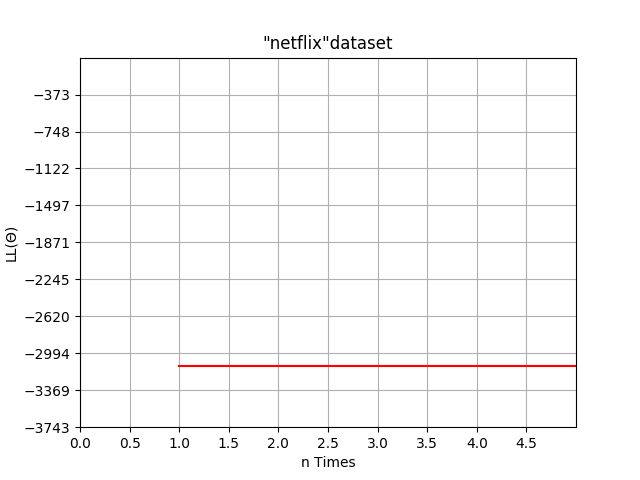
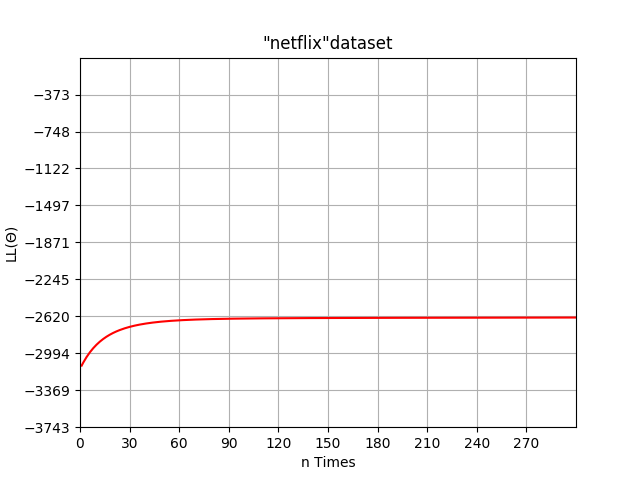
Without the hidden layer works like logistic, so it's all right. The error occurs with the hidden layer

diff --git a/training/train.py b/training/train.py
@@ -22,47 +22,33 @@ def train(fn, nTimes, rate, mh):
     labels = data[:, -1]  # vector of corresponding labels
     y_hats = np.empty(labels.shape)
 
-    thetas_h = np.zeros((mx, mh))         #parameters for input layer
-    thetas_y_hat = np.zeros(mh)      #parameters for hidden layer
+    thetas_y_hat = np.zeros((mh))         #parameters for input layer
 
     fig, ax, xdata, ydata, line = init(fn)     #plotting the log likelihood while training
 
     for k in range(nTimes):
-        gradient_h = np.zeros((mx, mh))
-        gradient_y_hat = np.zeros((mh))
+        gradient_y_hat = np.zeros((mx))
 
         for example in range(n):
             # Forward Pass, computing hidden layer
-            x, y, h = features[example], labels[example], np.zeros((mh))
-            for j in range(mh):
-                sum = 0.0
-                for i in range(mx):
-                    sum += x[i] * thetas_h[i][j]
-                h[j] = sigmoid(sum)
+            x, y = features[example], labels[example]
 
             #computing prediction
             sum = 0
-            for j in range(mh):
-                sum += thetas_y_hat[j] * h[j]
+            for i in range(mx):
+                sum += thetas_y_hat[i] * x[i]
             y_hat = sigmoid(sum)
             y_hats[example] = y_hat
             delta = y - y_hat
 
             # computing gradients
-            for j in range(mh):
-                gradient_y_hat[j] += delta * h[j]
-
             for i in range(mx):
-                for j in range(mh):
-                    gradient_h[i][j] += delta * h[j] * thetas_y_hat[j] * (1 - h[j]) * x[i]    #error here
+                gradient_y_hat[i] += delta * x[i]
 
         # updating parameters
-        for j in range(mh):
-            thetas_y_hat[j] += rate * gradient_y_hat[j]
-
         for i in range(mx):
-            for j in range(mh):
-                thetas_h[i][j] += rate * gradient_h[i][j]
+            thetas_y_hat[i] += rate * gradient_y_hat[i]
+
 
         LL = logLikelihood(labels, y_hats)
         print(LL)
@@ -71,7 +57,7 @@ def train(fn, nTimes, rate, mh):
 
     plt.savefig(f'graph/pics/{fn}.png')
 
-    return (thetas_h, thetas_y_hat, mh)
+    return thetas_y_hat
 
 # TODO loop for many h layers here? Or a matrix thing is possible with multiple layers too? Yes! 3d theta where i-th grid is current h
 # TODO make it a vector of size n, if there are n hidden layers in the network

diff --git a/testing/test.py b/testing/test.py
@@ -19,27 +19,19 @@ def test(fn, thetas):
     values = np.unique(labels) # all possible values the labels have
     y_hats = np.empty(labels.shape)
 
-    thetas_h, thetas_y_hat, mh = thetas
-    print(thetas_h, thetas_y_hat)
+    thetas_y_hat = thetas
 
     for example in range(n):
 
-        x, y, h = features[example], labels[example], np.zeros((mh))
-        #computing h
-        for j in range(mh):
-            sum = 0.0
-            for i in range(mx):
-                sum += x[i] * thetas_h[i][j]
-            h[j] = sigmoid(sum)
+        x, y = features[example], labels[example]
 
         # computing prediction
         sum = 0
-        for j in range(mh):
-            sum += thetas_y_hat[j] * h[j]
+        for i in range(mx):
+            sum += thetas_y_hat[i] * x[i]
         y_hat = sigmoid(sum)
         y_hats[example] = y_hat
 
-    print(y_hats)
     y_hats = vdecider(y_hats)
     guessed = np.zeros(len(values), dtype=int) #number of guesses for each value
     total = np.zeros(len(values), dtype=int)   #quantity of each value

diff --git a/components/neural.py b/components/neural.py
@@ -16,7 +16,7 @@ def neural():
          # },
         {
             'name': 'netflix',
-            'nTimes': 5,
+            'nTimes': 300,
             'rate': 0.0001
         },
         # {
